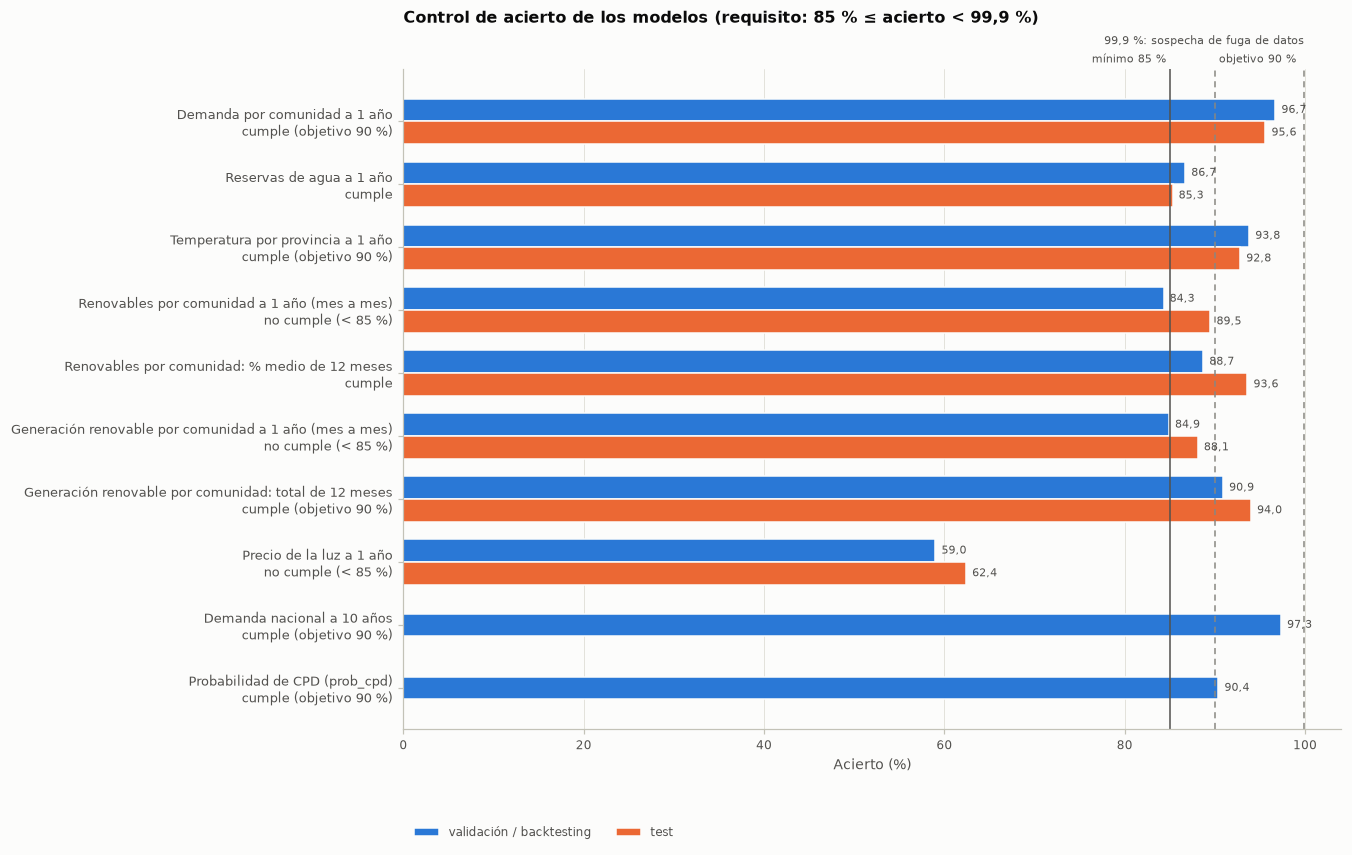
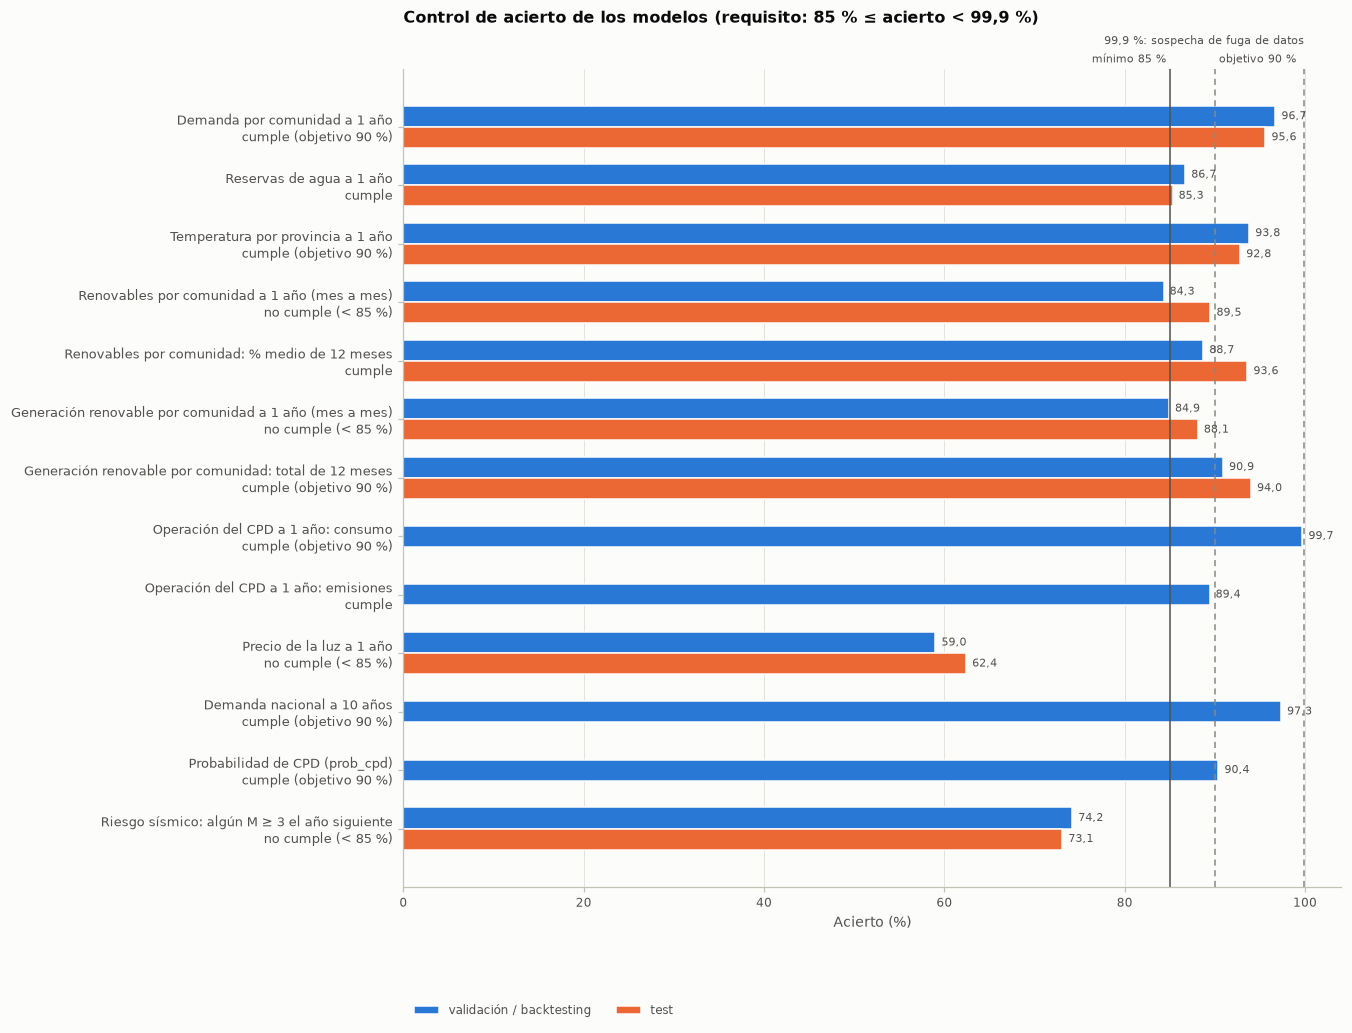
docs(analisis): operación del CPD y riesgo sísmico en el informe de previsiones
Secciones nuevas, figura 14 de emisiones por provincia y control de acierto con las filas
nuevas (figura 08).

diff --git a/docs/analisis/previsiones_1_anio.md b/docs/analisis/previsiones_1_anio.md
@@ -26,11 +26,14 @@ indica una fuga de información. El control se ejecuta en cada `python -m cpd.mo
 | Renovables por comunidad: % medio de 12 meses | 88,7 % | 93,6 % | 100 − WAPE de la media anual | cumple |
 | Generación renovable por comunidad a 1 año (mes a mes) | 84,9 % | 88,1 % | 100 − WAPE (MWh) | no cumple (< 85 %) |
 | Generación renovable por comunidad: total de 12 meses | 90,9 % | 94,0 % | 100 − WAPE del total anual | cumple (objetivo 90 %) |
+| Operación del CPD a 1 año: consumo | 99,7 % | — | 100 − WAPE del total anual (22 orígenes comunes) | cumple (objetivo 90 %) |
+| Operación del CPD a 1 año: emisiones | 89,4 % | — | 100 − WAPE del total anual (22 orígenes comunes) | cumple |
 | Precio de la luz a 1 año | 59,0 % | 62,4 % | 100 − WAPE | no cumple (< 85 %) |
 | Demanda nacional a 10 años | 97,3 % | — | 100 − WAPE (backtesting 2012-2025) | cumple (objetivo 90 %) |
 | Probabilidad de CPD (prob_cpd) | 90,4 % | — | accuracy fuera de pliegue | cumple (objetivo 90 %) |
+| Riesgo sísmico: algún M ≥ 3 el año siguiente | 74,2 % | 73,1 % | accuracy (validación 2018-2024, test 2025) | no cumple (< 85 %) |
 
-**No cumplen:** Renovables por comunidad a 1 año (mes a mes) (no cumple (< 85 %)); Generación renovable por comunidad a 1 año (mes a mes) (no cumple (< 85 %)); Precio de la luz a 1 año (no cumple (< 85 %)). Sus previsiones se enseñan solo como escenario, con el aviso, y no se usan como dato en el simulador.
+**No cumplen:** Renovables por comunidad a 1 año (mes a mes) (no cumple (< 85 %)); Generación renovable por comunidad a 1 año (mes a mes) (no cumple (< 85 %)); Precio de la luz a 1 año (no cumple (< 85 %)); Riesgo sísmico: algún M ≥ 3 el año siguiente (no cumple (< 85 %)). Sus previsiones se enseñan solo como escenario, con el aviso, y no se usan como dato en el simulador.
 
 
 ## Cómo se ha buscado el menor error
@@ -321,6 +324,49 @@ así que los dos periodos de 12 meses no coinciden del todo.
 | Ceuta | 0 | 209 | 0 % | 0 % |
 
 
+## Operación del CPD a 1 año (sostenibilidad operativa, objetivo A3)
+
+Encadena los modelos anteriores con las fórmulas del simulador para un CPD de referencia (50 MW de TI,
+carga 80 %, refrigeración por aire): la **temperatura media prevista** de la provincia da el
+PUE y el consumo, y el **% renovable previsto** de su comunidad da las emisiones si el CPD se abastece con el mix de
+generación de esa comunidad (0,10 t CO2 por MWh no renovable). El mercado eléctrico es único, así que
+usar el mix de la comunidad es una aproximación (recomendación, no viene de clase). También se da la reserva mínima
+prevista de los embalses del ámbito en los próximos 12 meses.
+
+**Validación de punta a punta** (22 orígenes de validación comunes a los dos modelos, 51 provincias): el consumo
+del año siguiente calculado con lo previsto acierta un **99,7 %** y las emisiones un **89,4 %**. El
+consumo acierta tanto porque el PUE apenas cambia con la temperatura en la fórmula del simulador (de 1,409 a 1,510
+entre provincias); no hay fuga de información: el dato real de cada año no se usa para prever ese año.
+
+![Emisiones del CPD](../../docs/figuras/previsiones/14_operacion_cpd_emisiones.png)
+
+**Figura 10.** Emisiones anuales del CPD de referencia en cada provincia: último año (azul) y próximos 12 meses
+(naranja).
+
+Menos emisiones previstas: Soria (2,2 mil t), Burgos (2,2 mil t), León (2,2 mil t), Ávila (2,3 mil t), Palencia (2,3 mil t). Más: Melilla (52,3 mil t), Ceuta (52,1 mil t), Balears, Illes (44,9 mil t), Palmas, Las (42,0 mil t), Santa Cruz de Tenerife (41,9 mil t).
+
+
+## Riesgo sísmico por provincia (P8)
+
+¿Habrá al menos un terremoto de magnitud ≥ 3 en la provincia el año que viene? Datos de EMSC por provincia y año
+(desde 2015); cada año se entrena solo con los anteriores. Variables: si lo hubo el año anterior, en qué fracción de
+años lo ha habido, actividad media, magnitud máxima y la peligrosidad oficial de la norma NCSE-02 (aceleración
+máxima de la provincia y municipios con ab ≥ 0,08 g). Candidatos: clase mayoritaria, persistencia («como el año
+anterior») y regresión logística; se elige con la log-loss de validación (2018-2024; test 2025).
+
+| Modelo | Partición | Accuracy | ROC-AUC | Recall | Log-loss |
+|---|---|---|---|---|---|
+| Logística con todas las features (ML) **(elegido)** | validacion | 74,2 % | 0,82 | 75 % | 0,549 |
+| Clase mayoritaria (baseline) | validacion | 62,9 % | 0,55 | 0 % | 0,662 |
+| Persistencia (como el año anterior) | validacion | 71,7 % | 0,70 | 65 % | 1,121 |
+| Logística con todas las features (ML) **(elegido)** | test | 73,1 % | 0,80 | 75 % | 0,524 |
+| Clase mayoritaria (baseline) | test | 76,9 % | 0,50 | 0 % | 0,589 |
+| Persistencia (como el año anterior) | test | 75,0 % | 0,66 | 50 % | 0,993 |
+
+**No llega al 85 %** aunque mejora a los baselines (ROC-AUC 0,82): que haya o no un terremoto de magnitud ≥ 3 en un año es muy aleatorio y diez años de catálogo son poca historia. No se usa en el score. Para el riesgo sísmico del score y del filtro se usa directamente la aceleración sísmica básica oficial de la capital (NCSE-02), que es el dato que manda para proyectar un edificio.
+Probabilidades más altas para 2026: Granada (97 %), Málaga (94 %), Murcia (90 %), Alicante/Alacant (88 %), Santa Cruz de Tenerife (84 %).
+
+
 ## Demanda eléctrica nacional a 10 años (P5)
 
 Demanda anual de España (REData, 2007-2025). Backtesting plurianual: desde el final de cada año entre 2011 y
@@ -329,7 +375,7 @@ deriva, tendencia lineal, Holt amortiguado y la combinación de los 3 mejores.
 
 ![Demanda a 10 años](../../docs/figuras/previsiones/07_demanda_nacional_10_anios.png)
 
-**Figura 10.** Demanda real, lo que el modelo habría previsto desde varios años del pasado y la previsión a 10 años.
+**Figura 11.** Demanda real, lo que el modelo habría previsto desde varios años del pasado y la previsión a 10 años.
 
 MAPE por horizonte (cuantos más años vista, menos orígenes con los que medirlo):
 
@@ -360,12 +406,12 @@ nacional). El intervalo a más de 7 años se extrapola (σ·√h) porque hay poc
 
 ![Error por horizonte](../../docs/figuras/previsiones/03_error_por_horizonte.png)
 
-**Figura 11.** Error medio de cada modelo según los meses de antelación (validación), un gráfico por serie. El elegido
+**Figura 12.** Error medio de cada modelo según los meses de antelación (validación), un gráfico por serie. El elegido
 va en naranja y el resto en gris.
 
 ![Comparación](../../docs/figuras/previsiones/04_comparacion_modelos.png)
 
-**Figura 12.** Error a 1 año de cada modelo en validación y en test, un gráfico por serie (el elegido, en negrita).
+**Figura 13.** Error a 1 año de cada modelo en validación y en test, un gráfico por serie (el elegido, en negrita).
 
 ## Limitaciones
 
